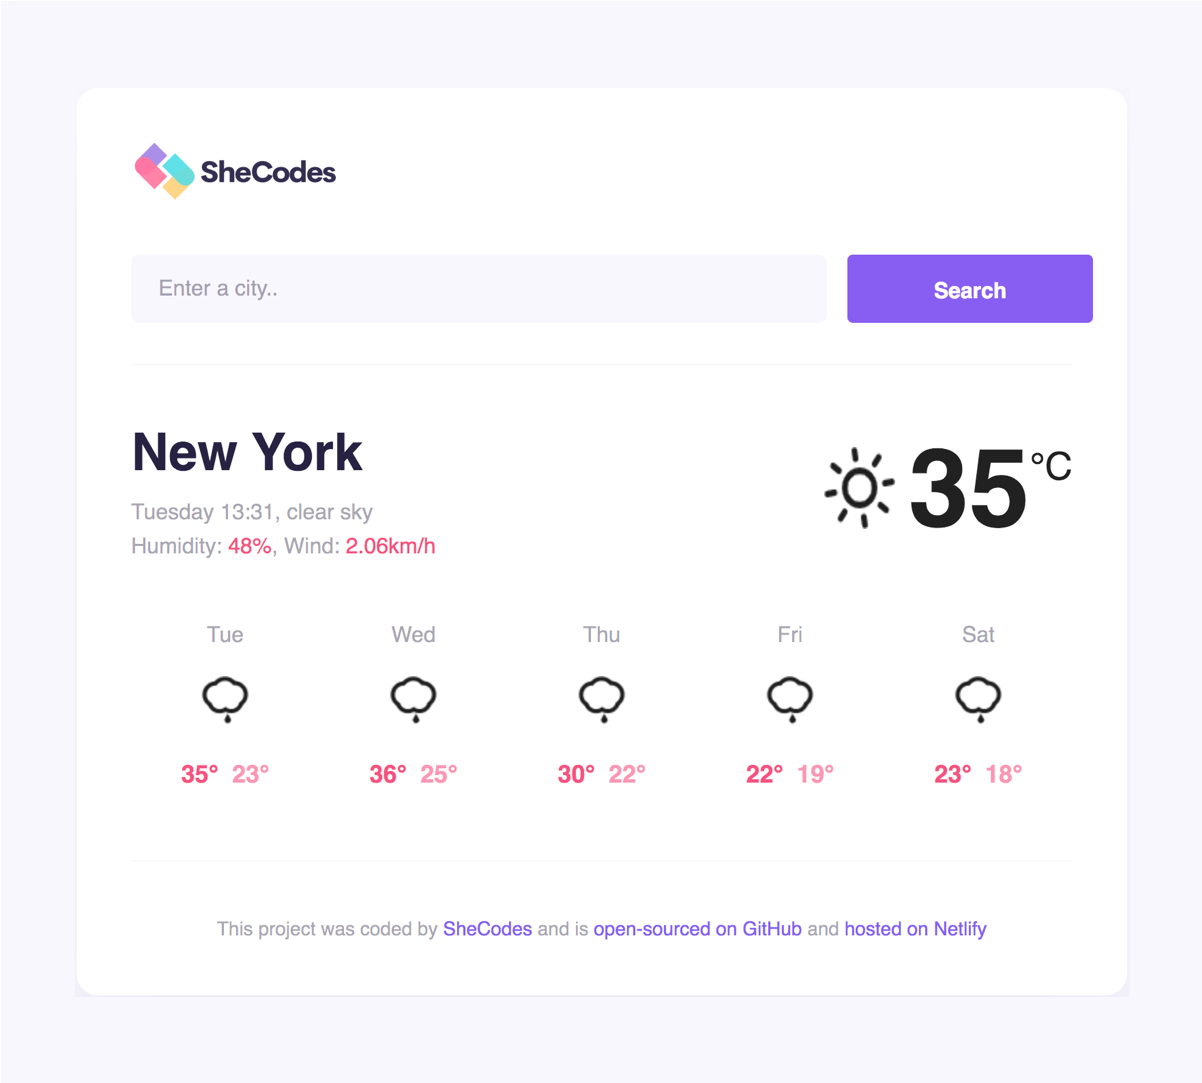
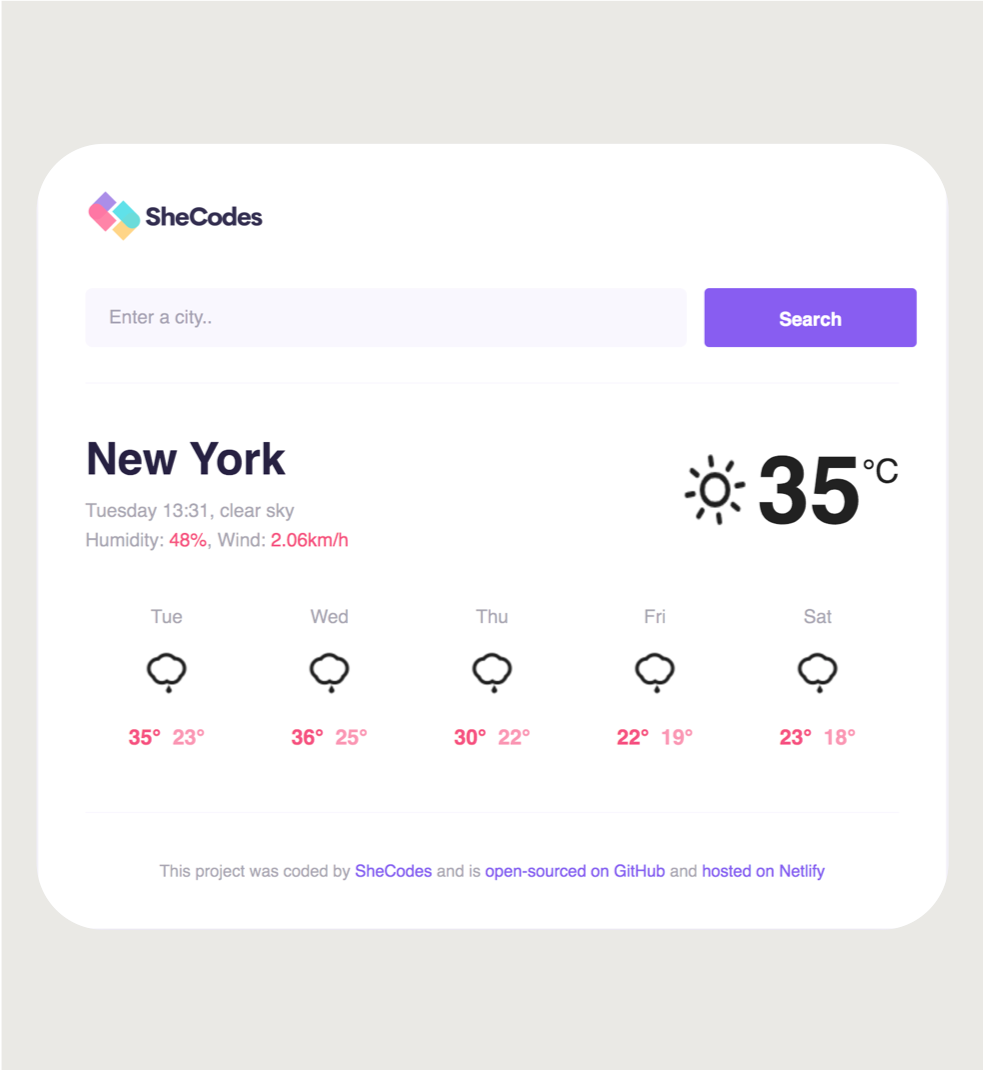
Updated Project Images on Project Page

diff --git a/projects.html b/projects.html
@@ -77,7 +77,7 @@
               <p class="text-center">
                 Built with basic HTML, CSS & JavaScript </p>
               <img
-                src="/images/lexi-project.png"
+                src="/images/lexi-project2.png"
                 class="img-fluid mb-5 rounded-3"
                 alt="Adopt-a-Pet Project Preview"
                 
@@ -120,7 +120,7 @@
                 Built with advanced HTML & CSS
               </p>
               <img
-                src="/images/portfolio-project.png"
+                src="/images/portfolio-project2.png"
                 class="img-fluid mb-5 rounded-3"
                 alt="Portfolio Project Preview"
                 
